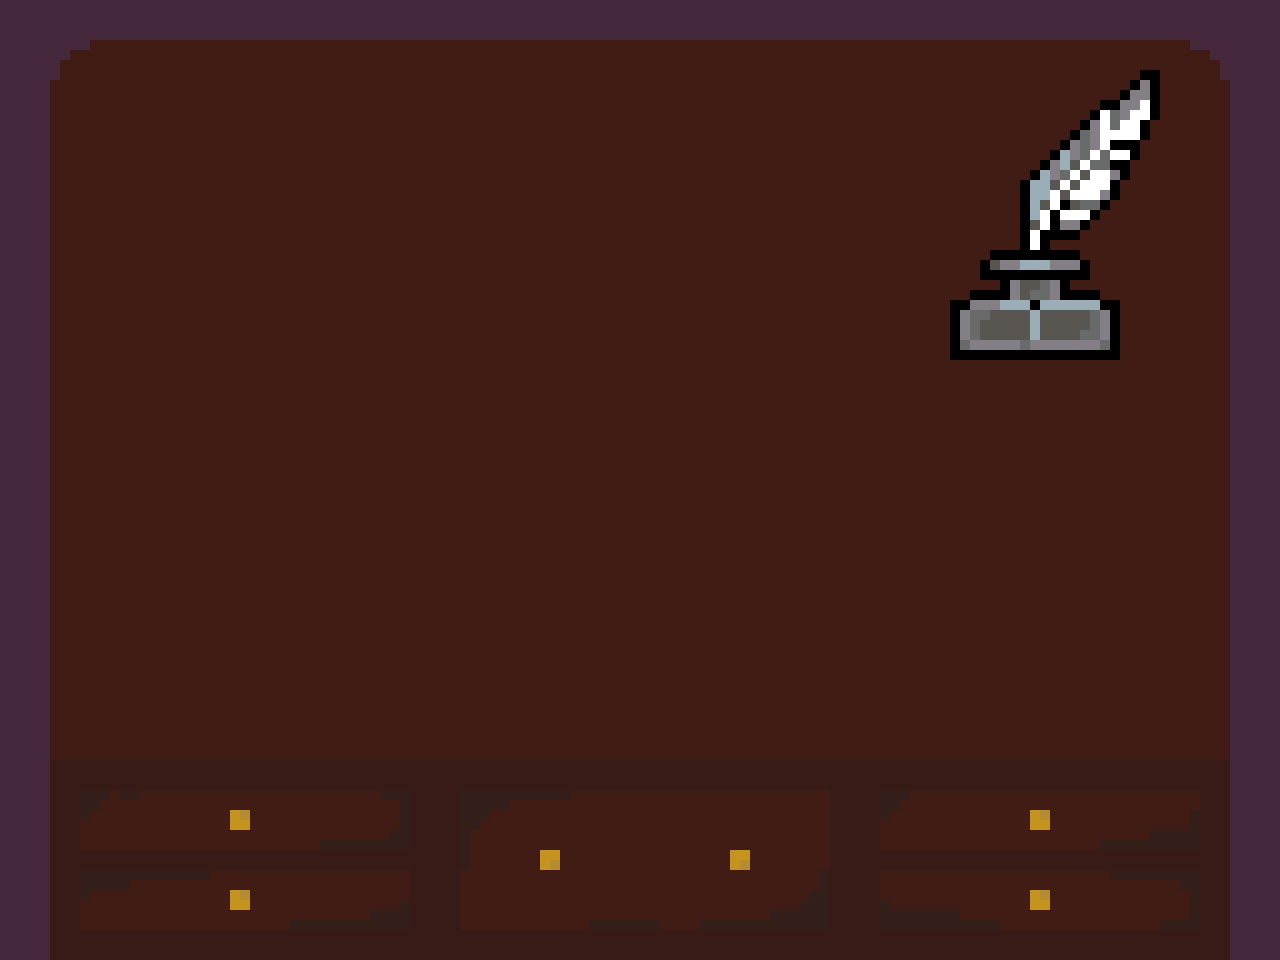
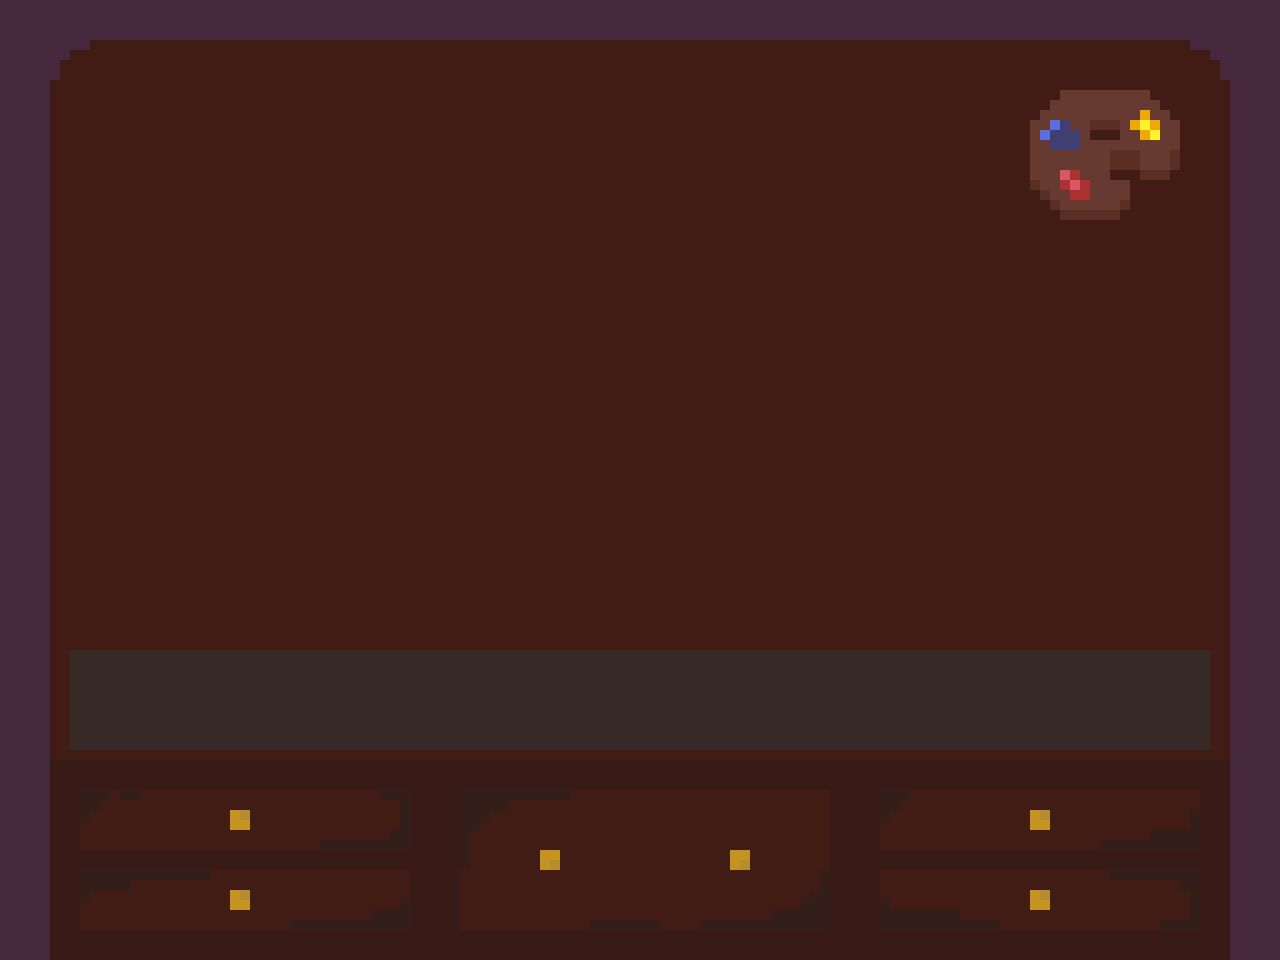
intro and desk

Changed region(s): [[0.7188, 0.0625, 0.9375, 0.375]]

diff --git a/game/assets/scenes/menu.py b/game/assets/scenes/menu.py
@@ -58,8 +58,9 @@ class MenuScene(Scene):
         ]
 
         self.back_button = BackButton(self.screen, MenuState.CHOICES) # defaults only
-        self.vhs_enabled = True
-        self.toggle_vhs_button = AnimatedButton(self.screen, MenuState.SETTINGS, Assets.animations.toggle_on, SCREEN_WIDTH-200, 300, hover_transforms=[scale_hover(1.1)], sound=Assets.sounds.default_button_click)
+        self.vhs_intensity = self._vhs.intensity if self._vhs else 0.8
+        self.grain_slider_rect = pygame.Rect(BORDER*2, BORDER*7+24, SCREEN_WIDTH - BORDER*4, 24)
+        self._slider_dragging = False
 
         self.spacebar = pygame.image.load(os.path.join(UI_PATH, "spacebar.png")).convert_alpha()
         self.spacebar = pygame.transform.scale(self.spacebar, (200, 70))
@@ -121,27 +122,30 @@ class MenuScene(Scene):
         # self.screen.blit(FONT.render("space", False, (0, 0, 0)), (space_x+30, space_y+20))
 
     def render_settings_screen(self):
-        for _ in self.handle_events([self.back_button, self.toggle_vhs_button]): pass
+        for _ in self.handle_events([self.back_button]): pass
         self.screen.blit(self.main_background, (0, 0))
         overlay = pygame.Surface((SCREEN_WIDTH-BORDER*2, SCREEN_HEIGHT-BORDER*5), pygame.SRCALPHA)
         pygame.draw.rect(overlay, (255, 255, 255, 150), (overlay.get_rect()))
         self.screen.blit(overlay, (BORDER, BORDER*3+10))
         self.back_button.draw()
 
-        # display text:
-        text = [
-            "Toggle VHS effect: ",
-        ]
-        self.toggle_vhs_button.draw()
-        # for i, line in enumerate(text):
-        #     self.screen.blit(FONT.render(line,
-        #         True, (0, 0, 0)), (BORDER*2, BORDER*7+25*i)
-        #     )
-        
-        # display key graphics:
-        # space_x, space_y = 572, 260
-        # self.screen.blit(self.spacebar, (space_x, space_y))
-        # self.screen.blit(FONT.render("space", False, (0, 0, 0)), (space_x+30, space_y+20))
+        label = FONT.render("Grain intensity", True, (0, 0, 0))
+        self.screen.blit(label, (self.grain_slider_rect.left, self.grain_slider_rect.top - 32))
+
+        # slider track and fill
+        pygame.draw.rect(self.screen, (200, 200, 200), self.grain_slider_rect, border_radius=12)
+        fill_rect = self.grain_slider_rect.copy()
+        fill_rect.width = int(self.vhs_intensity * self.grain_slider_rect.width)
+        pygame.draw.rect(self.screen, (120, 120, 120), fill_rect, border_radius=12)
+
+        knob_x = self.grain_slider_rect.left + int(self.vhs_intensity * self.grain_slider_rect.width)
+        knob_radius = self.grain_slider_rect.height // 2 + 4
+        knob_center = (knob_x, self.grain_slider_rect.centery)
+        pygame.draw.circle(self.screen, (255, 255, 255), knob_center, knob_radius)
+        pygame.draw.circle(self.screen, (80, 80, 80), knob_center, knob_radius, 2)
+
+        percent_label = FONT.render(f"{int(self.vhs_intensity * 100)}%", True, (0, 0, 0))
+        self.screen.blit(percent_label, (self.grain_slider_rect.right + 16, self.grain_slider_rect.centery - percent_label.get_height() // 2))
 
 
 
@@ -166,13 +170,19 @@ class MenuScene(Scene):
                 self.state = MenuState.QUIT
                 return # exit immediately
             # return button that was clicked, if there was one:
+            if event.type == pygame.MOUSEBUTTONDOWN and event.button == 1:
+                if self.grain_slider_rect.collidepoint(event.pos):
+                    self._slider_dragging = True
+                    self._update_vhs_intensity(event.pos[0])
+            elif event.type == pygame.MOUSEMOTION and self._slider_dragging:
+                self._update_vhs_intensity(event.pos[0])
+            elif event.type == pygame.MOUSEBUTTONUP and event.button == 1 and self._slider_dragging:
+                self._slider_dragging = False
+
             clicked_button = get_clicked_button(event, buttons)
             if clicked_button:
                 print(f"Clicked button: {clicked_button}")
-                if clicked_button == self.toggle_vhs_button:
-                    self.toggle_vhs()
-                else:
-                    self.state = clicked_button.action() # go to new menu state
+                self.state = clicked_button.action() # go to new menu state
                 yield clicked_button
                 continue # process remaining events
             yield event # return remaining events, itteratively